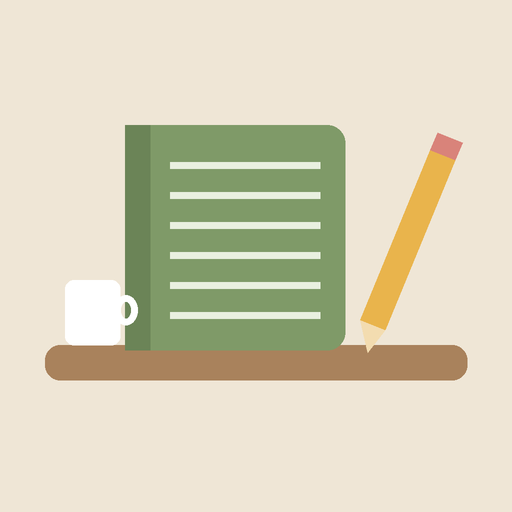
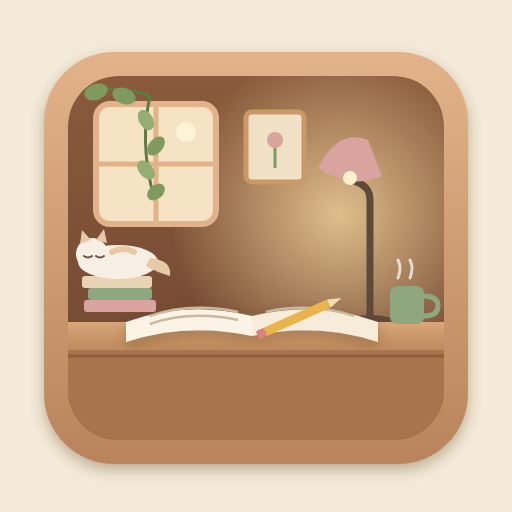
v143: Çalışma Masam için yeni ikon
Claude-Session: https://claude.ai/code/session_01Qek3SBQGEkkfq6LNJ44JCo

diff --git a/index.html b/index.html
@@ -5,7 +5,7 @@
 <meta name="apple-mobile-web-app-capable" content="yes"><meta name="apple-mobile-web-app-title" content="Kütüphanem">
 <title>Dijital Kütüphanem</title><script>/* Çalışma Masam: aynı uygulama, sadece Defterlerim + Akademik (veriler ortak) */
 window.DK_MASA=/[?&]app=masa\b/.test(location.search);if(DK_MASA){document.documentElement.classList.add('masa');document.title='Çalışma Masam';
- document.querySelector('link[rel=manifest]').href='calisma.webmanifest';document.querySelector('link[rel=apple-touch-icon]').href='calisma-180.png';document.querySelector('link[rel=icon]').href='calisma-192.png';document.querySelector('meta[name=apple-mobile-web-app-title]').content='Çalışma Masam'}</script>
+ document.querySelector('link[rel=manifest]').href='calisma.webmanifest';document.querySelector('link[rel=apple-touch-icon]').href='calisma-180.png?v=2';document.querySelector('link[rel=icon]').href='calisma-192.png?v=2';document.querySelector('meta[name=apple-mobile-web-app-title]').content='Çalışma Masam'}</script>
 <link rel="preconnect" href="https://fonts.googleapis.com">
 <link rel="stylesheet" href="https://fonts.googleapis.com/css2?family=Cormorant+Garamond:ital,wght@0,500;0,600;0,700;1,500&family=DM+Sans:opsz,wght@9..40,400;9..40,500;9..40,600&family=DM+Mono:wght@400;500&family=Playfair+Display:ital,wght@0,500;0,600;1,500&family=Lora:ital,wght@0,500;0,600;1,500&family=Caveat:wght@500;600&family=Nunito:ital,wght@0,400;0,500;0,600;0,700;1,500&family=Quicksand:wght@500;600;700&family=Fraunces:ital,opsz,wght@0,9..144,500;0,9..144,600;1,9..144,500&family=Playpen+Sans:wght@400;500;600&family=Shantell+Sans:wght@400;500;600&family=Patrick+Hand&family=Literata:ital,wght@0,400;0,600;1,400&family=Merriweather:ital,wght@0,400;0,700;1,400&family=EB+Garamond:ital,wght@0,400;0,600;1,400&family=Atkinson+Hyperlegible:ital,wght@0,400;0,700;1,400&display=swap">
 <style>
@@ -5433,7 +5433,7 @@ document.addEventListener('input',e=>{if(e.target.id==='cmP'){const o=$('cmPv');
 document.addEventListener('keydown',async e=>{const t=e.target;if(e.key!=='Enter'||!t.dataset||t.dataset.cmenter!=='appt'||e.isComposing)return;e.preventDefault();const v=t.value.trim();if(!v)return;const c=calmCfg();t.value='';LF.focus='cmAI';await calmSet({appt:[...(c.appt||[]),{id:nbId(),t:v,at:new Date().toISOString()}]});setTimeout(lfForce,150)});
 
 /* ===================== Kitabı tüm cihazlarda açma (Drive) + sürüm güncelleme ===================== */
-const DK_VER='v142';
+const DK_VER='v143';
 function dkLocalOnly(b){return typeof LOCAL!=='undefined'&&b&&b.assetId&&!b.driveId&&!b.fileRemoved&&!(b.parts&&b.parts.length>1)}
 function dkHere(b){return dkLocalOnly(b)&&LOCAL.has(b.assetId)}
 const DK_BF='📱 Uygulamadan eklenenler';

diff --git a/sw.js b/sw.js
@@ -1,5 +1,5 @@
-const C='kutuphane-v142';
-self.addEventListener('install',e=>{e.waitUntil(caches.open(C).then(c=>c.addAll(['./','./index.html','./manifest.webmanifest','./icon-192.png','./icon-512.png','./config.js','./gizlilik.html','./kamera.html','./kamera.webmanifest','./kamera-192.png?v=3','./mantar.html','./mantar.webmanifest','./mantar-192.png','./mektup.html','./mektup.webmanifest','./mektup-192.png','./hediye-24.html','./calisma.html','./masa/','./masa/manifest.webmanifest','./calisma.webmanifest','./calisma-192.png','./calisma-180.png'])).then(()=>self.skipWaiting()))});
+const C='kutuphane-v143';
+self.addEventListener('install',e=>{e.waitUntil(caches.open(C).then(c=>c.addAll(['./','./index.html','./manifest.webmanifest','./icon-192.png','./icon-512.png','./config.js','./gizlilik.html','./kamera.html','./kamera.webmanifest','./kamera-192.png?v=3','./mantar.html','./mantar.webmanifest','./mantar-192.png','./mektup.html','./mektup.webmanifest','./mektup-192.png','./hediye-24.html','./calisma.html','./masa/','./masa/manifest.webmanifest','./calisma.webmanifest','./calisma-192.png?v=2','./calisma-180.png?v=2'])).then(()=>self.skipWaiting()))});
 self.addEventListener('activate',e=>{e.waitUntil(caches.keys().then(ks=>Promise.all(ks.filter(k=>k!==C).map(k=>caches.delete(k)))).then(()=>self.clients.claim()))});
 self.addEventListener('fetch',e=>{const r=e.request;if(r.method!=='GET')return;
   const u=new URL(r.url);

diff --git a/masa/index.html b/masa/index.html
@@ -1,6 +1,6 @@
 <!doctype html>
 <html lang="tr"><head><meta charset="utf-8"><meta name="viewport" content="width=device-width,initial-scale=1,viewport-fit=cover">
-<title>Çalışma Masam</title><link rel="manifest" href="manifest.webmanifest"><link rel="icon" href="../calisma-192.png"><link rel="apple-touch-icon" href="../calisma-180.png">
+<title>Çalışma Masam</title><link rel="manifest" href="manifest.webmanifest"><link rel="icon" href="../calisma-192.png?v=2"><link rel="apple-touch-icon" href="../calisma-180.png?v=2">
 <meta name="apple-mobile-web-app-capable" content="yes"><meta name="mobile-web-app-capable" content="yes"><meta name="apple-mobile-web-app-title" content="Çalışma Masam"><meta name="theme-color" content="#efe6d6">
 <style>html,body{margin:0;height:100%;background:#efe6d6;overflow:hidden}iframe{position:fixed;inset:0;width:100%;height:100%;border:0}</style></head>
 <body><iframe src="../index.html?app=masa" title="Çalışma Masam" allow="clipboard-read; clipboard-write; microphone; camera; fullscreen; autoplay; web-share"></iframe></body></html>
